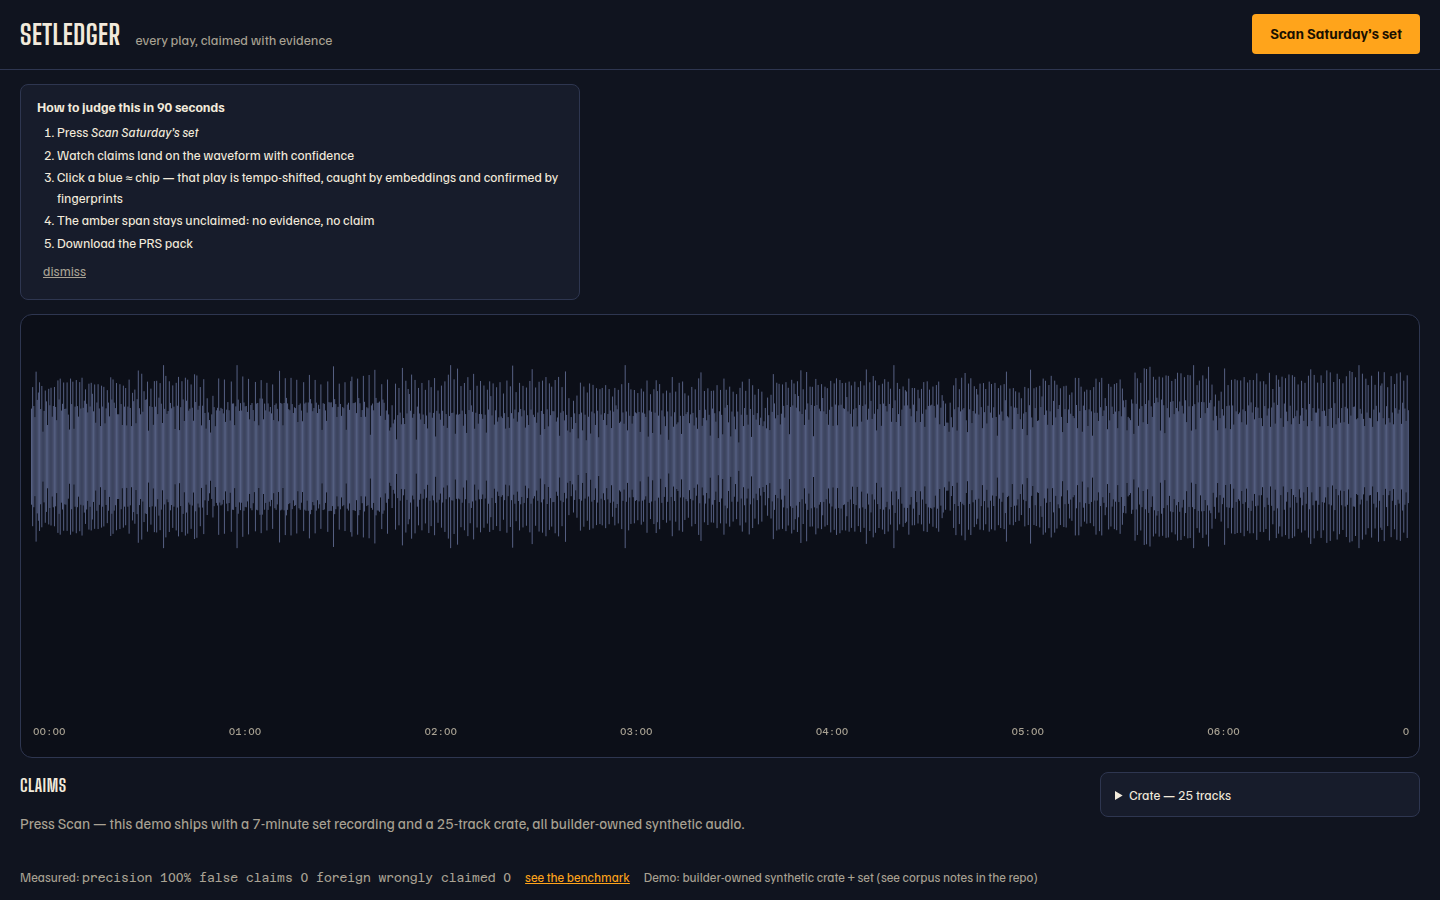
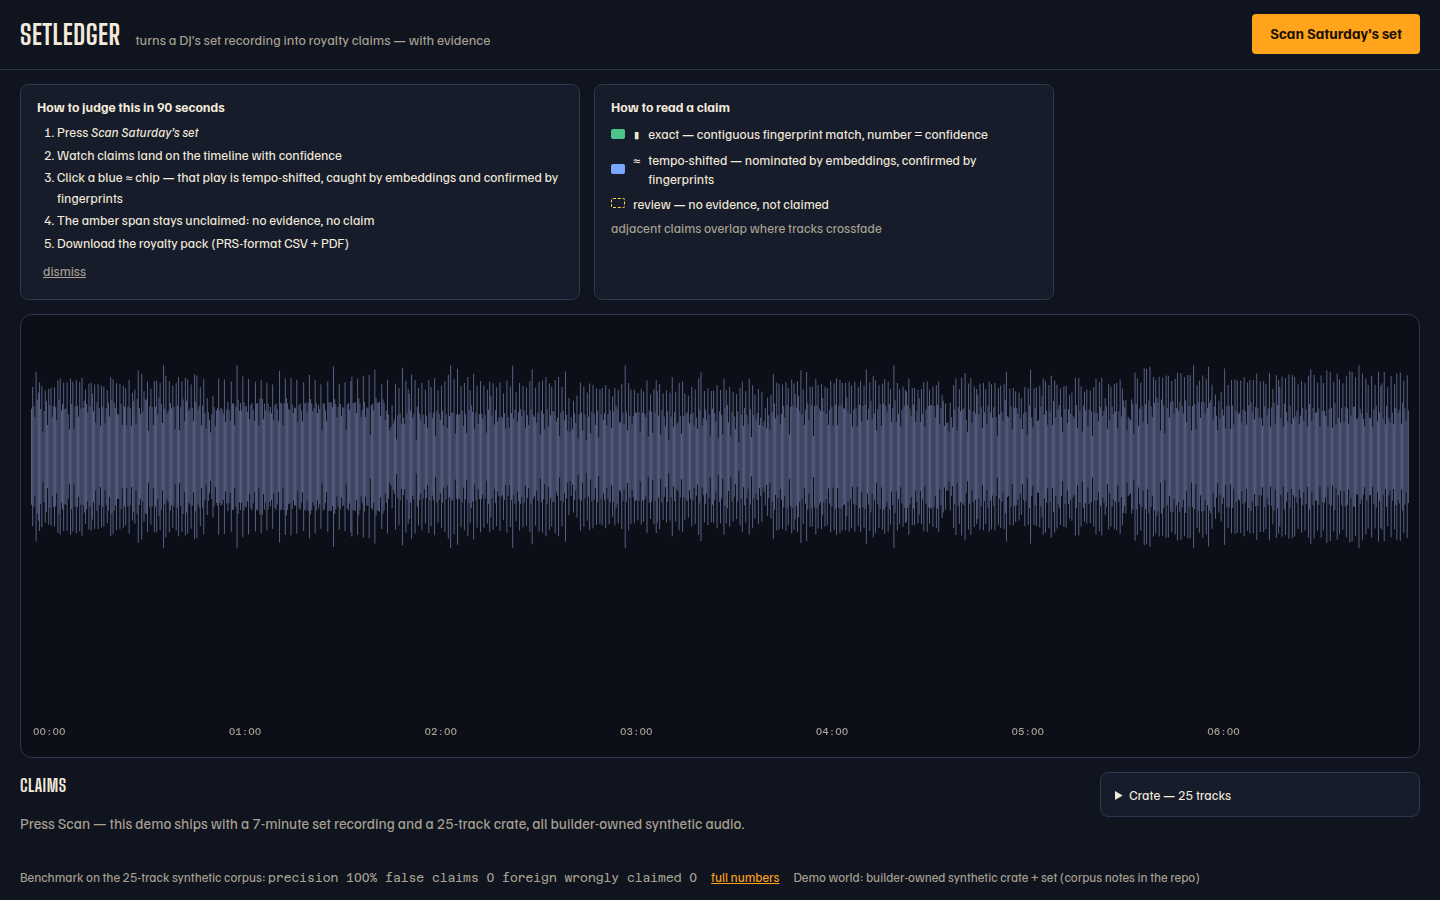
Gate sweep fixes: job-naming descriptor, claims legend card, review chip ranges, blue-block names, mobile product-first order, labeled bench footer (skeptical-evaluator findings)

diff --git a/src/setledger/static/index.html b/src/setledger/static/index.html
@@ -13,7 +13,7 @@
 <header>
   <div class="brand">
     <span class="wordmark">SetLedger</span>
-    <span class="descriptor">every play, claimed with evidence</span>
+    <span class="descriptor">turns a DJ&rsquo;s set recording into royalty claims &mdash; with evidence</span>
   </div>
   <div class="header-actions">
     <button id="scan-btn" class="btn-primary">Scan Saturday&rsquo;s set</button>
@@ -27,17 +27,28 @@
 </div>
 <div id="error-banner" class="banner banner-error" hidden></div>
 
+<div id="intro-row">
 <aside id="judge-card">
   <strong>How to judge this in 90 seconds</strong>
   <ol>
     <li>Press <em>Scan Saturday&rsquo;s set</em></li>
-    <li>Watch claims land on the waveform with confidence</li>
+    <li>Watch claims land on the timeline with confidence</li>
     <li>Click a blue <span class="mono">&asymp;</span> chip &mdash; that play is tempo-shifted, caught by embeddings and confirmed by fingerprints</li>
     <li>The amber span stays unclaimed: no evidence, no claim</li>
-    <li>Download the PRS pack</li>
+    <li>Download the royalty pack (PRS-format CSV + PDF)</li>
   </ol>
   <button id="judge-dismiss" class="btn-ghost">dismiss</button>
 </aside>
+<aside id="read-card">
+  <strong>How to read a claim</strong>
+  <ul class="legend">
+    <li><span class="swatch sw-exact"></span><span class="mono glyph-exact">&#9646;</span> exact &mdash; contiguous fingerprint match, number = confidence</li>
+    <li><span class="swatch sw-embedding"></span><span class="mono glyph-embedding">&asymp;</span> tempo-shifted &mdash; nominated by embeddings, confirmed by fingerprints</li>
+    <li><span class="swatch sw-review"></span>review &mdash; no evidence, not claimed</li>
+    <li class="muted">adjacent claims overlap where tracks crossfade</li>
+  </ul>
+</aside>
+</div>
 
 <main>
   <section id="stage">
@@ -69,9 +80,9 @@
 </main>
 
 <footer>
-  <span id="bench-line">Measured: <span class="mono" id="bench-summary">loading&hellip;</span></span>
-  <a href="#" id="bench-link">see the benchmark</a>
-  <span class="muted">Demo: builder-owned synthetic crate + set (see corpus notes in the repo)</span>
+  <span id="bench-line">Benchmark on the 25-track synthetic corpus: <span class="mono" id="bench-summary">loading&hellip;</span></span>
+  <a href="#" id="bench-link">full numbers</a>
+  <span class="muted">Demo world: builder-owned synthetic crate + set (corpus notes in the repo)</span>
 </footer>
 
 <dialog id="bench-dialog">

diff --git a/src/setledger/static/style.css b/src/setledger/static/style.css
@@ -29,10 +29,19 @@ header{display:flex;align-items:center;justify-content:space-between;gap:16px;
   color:var(--warning);font-size:14px}
 .banner-error{color:var(--danger)}
 
-#judge-card{margin:14px 20px 0;padding:12px 16px;background:var(--surface-1);
-  border:1px solid var(--line);border-radius:var(--r-md);max-width:560px;font-size:13.5px}
+#intro-row{display:flex;gap:14px;margin:14px 20px 0;align-items:stretch;flex-wrap:wrap}
+#judge-card,#read-card{padding:12px 16px;background:var(--surface-1);
+  border:1px solid var(--line);border-radius:var(--r-md);font-size:13.5px}
+#judge-card{max-width:560px}
+#read-card{max-width:460px}
 #judge-card ol{margin:6px 0 2px;padding-left:20px}
 #judge-card li{margin:3px 0}
+.legend{list-style:none;margin:8px 0 0;padding:0}
+.legend li{display:flex;gap:8px;align-items:baseline;margin:5px 0}
+.swatch{width:14px;height:10px;border-radius:2px;flex:none;align-self:center}
+.sw-exact{background:var(--data-exact)}
+.sw-embedding{background:var(--data-embedding)}
+.sw-review{border:1.5px dashed var(--data-review);background:none}
 
 main{padding:14px 20px 8px}
 #stage{background:var(--surface-sunken);border:1px solid var(--line);border-radius:var(--r-lg);
@@ -85,4 +94,9 @@ dialog::backdrop{background:rgba(8,10,16,.7)}
   #side-panel{width:100%}
   #timeline{height:34vh}
   .descriptor{display:block;margin-left:0}
+  /* the product leads on a phone; the how-to cards follow it */
+  body{display:flex;flex-direction:column}
+  #intro-row{order:2;margin-top:14px}
+  footer{order:3}
+  dialog{order:4}
 }

diff --git a/src/setledger/static/app.js b/src/setledger/static/app.js
@@ -81,7 +81,7 @@ async function pollScan() {
 }
 
 function finishScanUI(sc) {
-  $("stage-status").textContent = sc.elapsed ? `scan ${sc.elapsed}s` : "";
+  $("stage-status").textContent = sc.elapsed ? `scanned in ${sc.elapsed}s` : "";
   $("scan-btn").hidden = true;
   const n = S.plays.filter((p) => p.status === "matched").length;
   $("export-btn").textContent = `Download PRS pack (${n} plays)`;
@@ -168,7 +168,7 @@ function draw() {
       ctx.globalAlpha = 1;
       ctx.fillStyle = "#0b0f18"; ctx.font = `11px ${cssVar("--ff-mono")}`;
       if (w > 44) ctx.fillText(p.confidence.toFixed(2), x + 5, laneY + 14);
-      if (w > 120) ctx.fillText(title(p.track_file), x + 5, laneY + laneH - 7);
+      if (w > 64) ctx.fillText(title(p.track_file), x + 5, laneY + laneH - 7);
     }
     ctx.restore();
   });
@@ -193,7 +193,7 @@ function draw() {
 function drawChips(items) {
   $("chips").innerHTML = items.map((p, i) =>
     p.status === "review"
-      ? `<span class="chip chip-review">${fmtT(p.t_start)} review</span>`
+      ? `<span class="chip chip-review">${fmtT(p.t_start)}–${fmtT(p.t_end)} · review</span>`
       : `<button class="chip" data-i="${i}" aria-label="claim ${esc(title(p.track_file))} at ${fmtT(p.t_start)}">` +
         `<span class="glyph-${p.method}">${methodGlyph(p.method)}</span> ` +
         `${fmtT(p.t_start)}–${fmtT(p.t_end)} · ${p.confidence.toFixed(2)}</button>`).join("");
